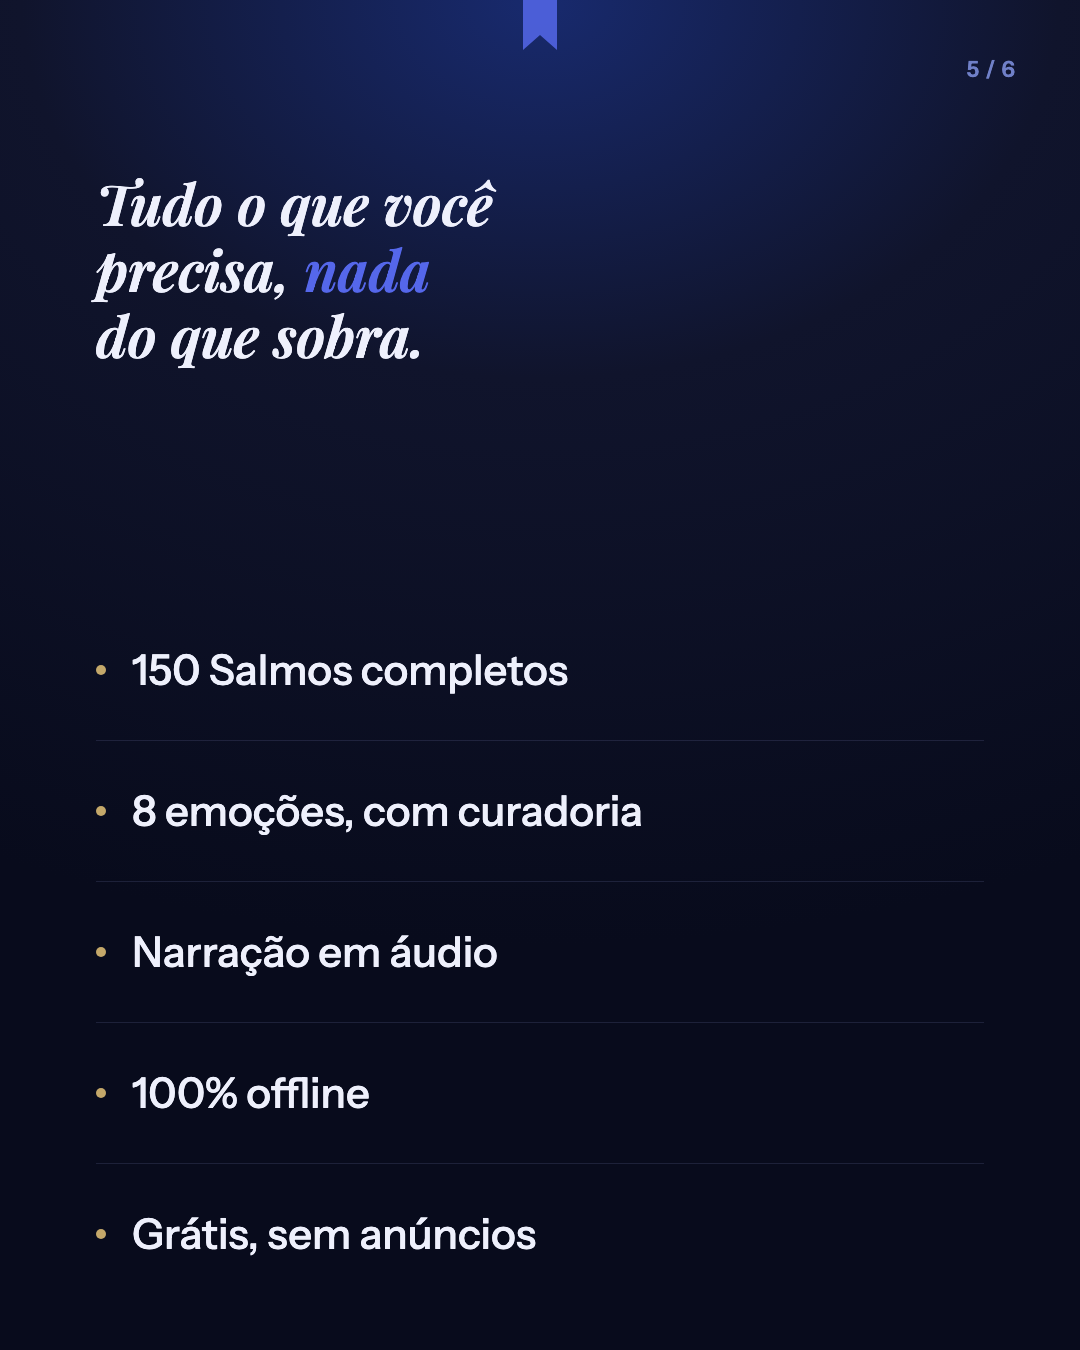
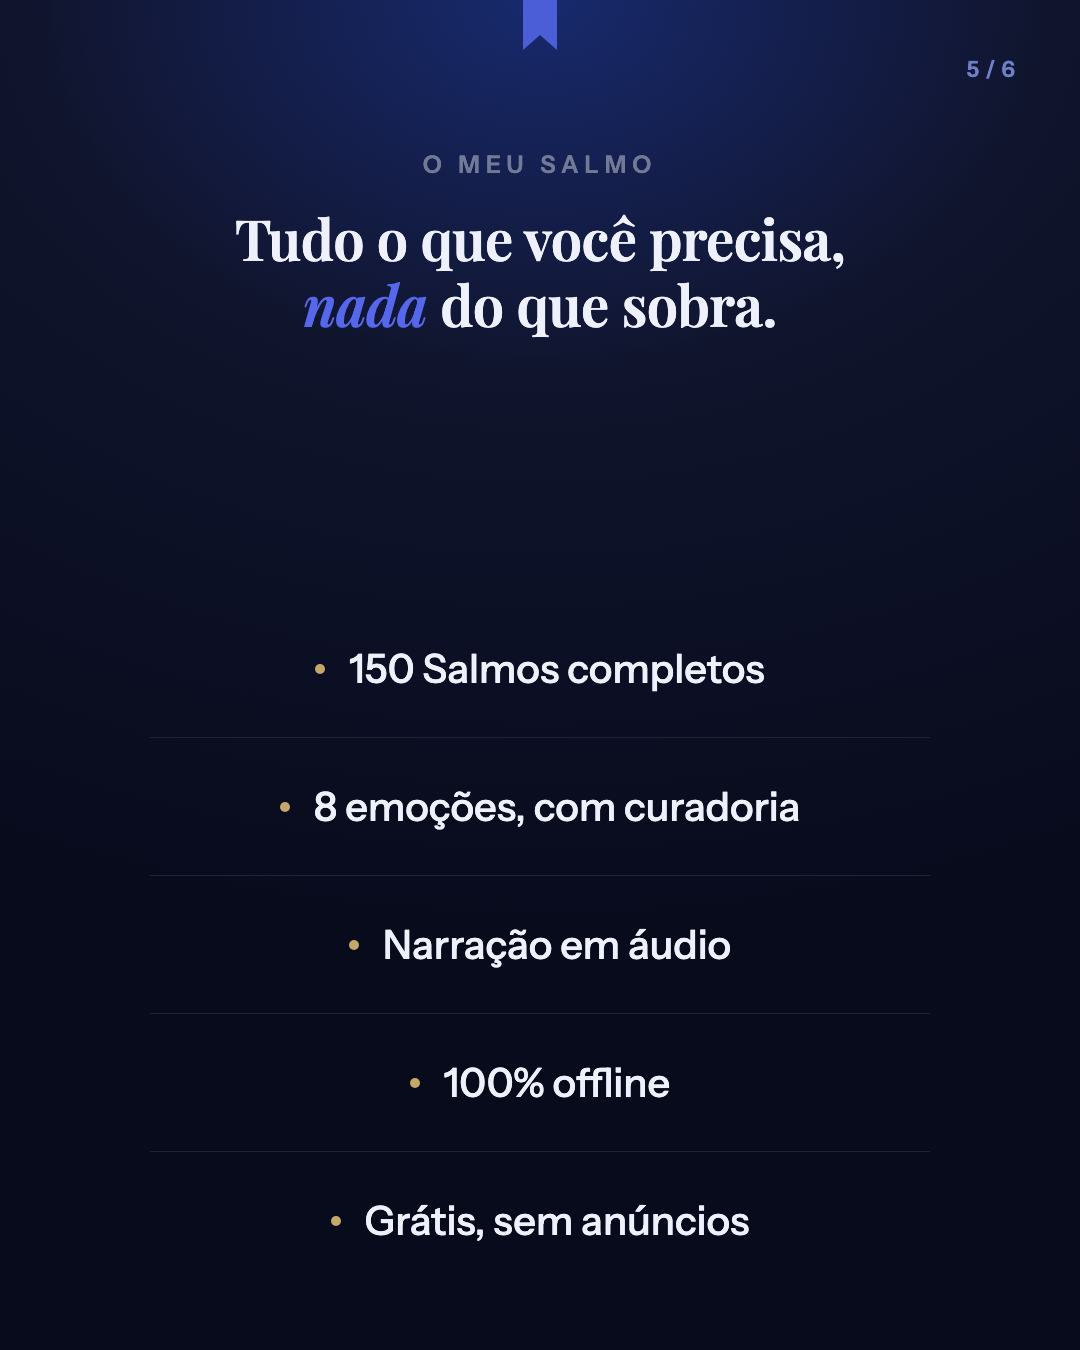
fix(instagram): slide 5 do post 11 fugia do padrão visual do carrossel
Título estava inteiro em itálico e alinhado à esquerda — os outros 5
slides do carrossel são centralizados e reservam itálico só pra palavra
de destaque em cobalt (regra do design system: Playfair itálico é pro
registro reflexivo/versículo, título normal fica reto). Alinhado ao
mesmo padrão do slide 1 (eyebrow + headline + <em> cobalt).

diff --git a/instagram/fontes/carrossel-lancamento/slide-05-bullets.html b/instagram/fontes/carrossel-lancamento/slide-05-bullets.html
@@ -1,22 +1,27 @@
 <!DOCTYPE html><html><head><meta charset="UTF-8">
-<link href="https://fonts.googleapis.com/css2?family=Playfair+Display:ital,wght@1,600&family=Instrument+Sans:wght@400;500;600&display=swap" rel="stylesheet">
+<link href="https://fonts.googleapis.com/css2?family=Playfair+Display:ital,wght@0,600;1,600&family=Instrument+Sans:wght@400;500;600&display=swap" rel="stylesheet">
 <style>
 *{margin:0;padding:0;box-sizing:border-box;}
 body{width:1080px;height:1350px;overflow:hidden;}
 .wrap{width:1080px;height:1350px;position:relative;background:radial-gradient(120% 70% at 50% 0%,#182a6e 0%,#10142C 40%,#080B1C 100%);}
 .bookmark{position:absolute;top:0;left:50%;transform:translateX(-50%);width:34px;height:50px;background:#5567EA;opacity:.85;clip-path:polygon(0 0,100% 0,100% 100%,50% 70%,0 100%);}
 .counter{position:absolute;top:56px;right:64px;font-family:'Instrument Sans',sans-serif;font-weight:600;font-size:22px;letter-spacing:1px;color:#7080C8;}
-.hl{position:absolute;top:170px;left:96px;right:96px;font-family:'Playfair Display',serif;font-style:italic;font-weight:600;font-size:56px;line-height:1.18;color:#EEF0FC;}
-.hl em{color:#5567EA;}
-.list{position:absolute;top:600px;left:96px;right:96px;}
-.item{display:flex;align-items:center;gap:26px;padding:44px 0;border-bottom:1px solid rgba(140,151,212,.16);}
+.top{position:absolute;top:150px;left:96px;right:96px;text-align:center;}
+.eyebrow{font-family:'Instrument Sans',sans-serif;font-weight:600;font-size:24px;letter-spacing:6px;text-transform:uppercase;color:#FFFFFF;opacity:.4;margin-bottom:26px;}
+.hl{font-family:'Playfair Display',serif;font-weight:600;font-size:56px;line-height:1.18;letter-spacing:-.01em;color:#EEF0FC;}
+.hl em{font-style:italic;color:#5567EA;}
+.list{position:absolute;top:600px;left:150px;right:150px;}
+.item{display:flex;align-items:center;justify-content:center;gap:24px;padding:44px 0;border-bottom:1px solid rgba(140,151,212,.16);}
 .dot{width:10px;height:10px;border-radius:50%;background:#C4A86A;flex:none;}
-.item span{font-family:'Instrument Sans',sans-serif;font-weight:500;font-size:42px;color:#EEF0FC;}
+.item span{font-family:'Instrument Sans',sans-serif;font-weight:500;font-size:40px;color:#EEF0FC;}
 </style></head><body>
 <div class="wrap">
   <div class="bookmark"></div>
   <div class="counter">5 / 6</div>
-  <div class="hl">Tudo o que você<br>precisa, <em>nada</em><br>do que sobra.</div>
+  <div class="top">
+    <div class="eyebrow">O Meu Salmo</div>
+    <div class="hl">Tudo o que você precisa,<br><em>nada</em> do que sobra.</div>
+  </div>
   <div class="list">
     <div class="item"><div class="dot"></div><span>150 Salmos completos</span></div>
     <div class="item"><div class="dot"></div><span>8 emoções, com curadoria</span></div>
